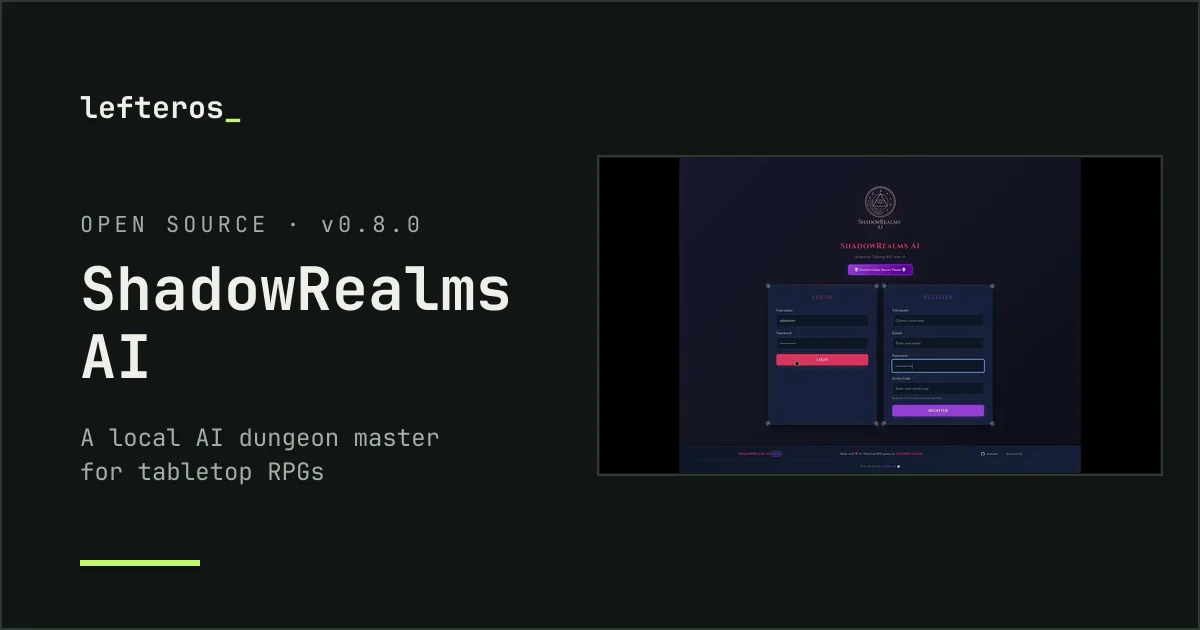
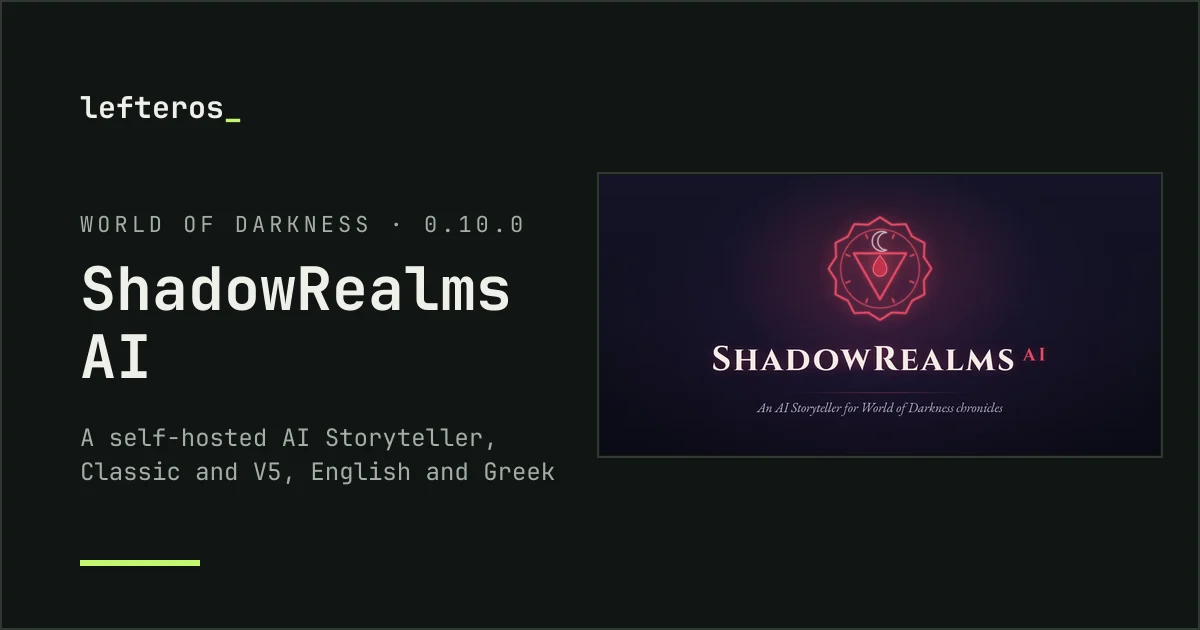
ShadowRealms AI 0.10.0: new cover, trailer in English and Greek, screenshots, the new engine [skip ci]

Changed region(s): [[0.4933, 0.2413, 0.9867, 0.754], [0.0617, 0.6635, 0.4625, 0.7841], [0.0617, 0.3317, 0.4317, 0.3619]]

diff --git a/README.md b/README.md
@@ -47,10 +47,34 @@ Everything I make, write and have worked on lives at **[lefteros_ · lefteros.co
 
 ## Flagship: ShadowRealms AI
 
-<a href="https://lefteros.com/en/apps/shadowrealms-ai/"><img src="assets/cards/cover-shadowrealms-ai.webp" alt="ShadowRealms AI" width="100%"></a>
+<a href="https://lefteros.com/en/apps/shadowrealms-ai/"><img src="assets/cards/cover-shadowrealms-ai.webp" alt="ShadowRealms AI 0.10.0: a self-hosted AI Storyteller for World of Darkness" width="100%"></a>
 
-**[ShadowRealms AI](https://github.com/Somnius/shadowrealms-ai)**: a tabletop RPG platform where the dungeon master is a local LLM. The narrator remembers your campaign through RAG memory in ChromaDB, runs on Docker with Flask and React, and is MIT-licensed. It's my biggest project.
-<br>[![Stars](https://img.shields.io/github/stars/Somnius/shadowrealms-ai?style=flat-square&color=c2f66d&labelColor=111513)](https://github.com/Somnius/shadowrealms-ai/stargazers) · **[Read the story on lefteros.com →](https://lefteros.com/en/apps/shadowrealms-ai/)**
+**[ShadowRealms AI](https://github.com/Somnius/shadowrealms-ai)** is a self-hosted AI Storyteller for World of Darkness chronicles. You run it yourself with Docker, the stories come from local models through LM Studio and Ollama, and every chronicle plays by **Classic** (oWoD Revised: Vampire, Werewolf, Mage) or **V5** rules, in English or Greek. It's my biggest project.
+
+<p align="center"><a href="https://github.com/Somnius/shadowrealms-ai/releases/download/trailer-v0.10.0/trailer_en_1080p60.mp4"><img src="assets/shadowrealms/trailer-en.webp" alt="Watch the ShadowRealms AI trailer (2 minutes)" width="100%"></a><br>
+<sub><b><a href="https://github.com/Somnius/shadowrealms-ai/releases/download/trailer-v0.10.0/trailer_en_1080p60.mp4">Trailer in English</a></b> · <b><a href="https://github.com/Somnius/shadowrealms-ai/releases/download/trailer-v0.10.0/trailer_el_1080p60.mp4">Το trailer στα ελληνικά</a></b> · 2 minutes, recorded on a fresh copy of the app: real Storyteller replies from a local model, real dice rolls, an original score.</sub></p>
+
+- **Two rule sets.** Classic dice follow Revised (difficulties, botches, specialties, Willpower). V5 brings Hunger dice, messy criticals, bestial failures and Rouse checks.
+- **Dice from your sheet.** When the Storyteller calls for a roll, the server works out the pool from your character sheet, and every dice card in the chat is a real server roll.
+- **Discord-style play.** In-character and out-of-character rooms, live updates, slash commands, and a character forge for each edition.
+- **AI in roles.** English and Greek Storytellers (Llama-Krikri for Greek), long-term memory and rule-book search with bge-m3 in ChromaDB, and the Laya classifier moderating the OOC rooms.
+- **A gothic look.** 97 original SVG glyphs and sigils, animated dice, fog, candle glow and blood on a botch.
+- **A new engine in 0.10.0.** Vite instead of Create React App (builds in about a second, npm audit down from 69 findings to 0), React Router 7, Python 3.12, a pinned ChromaDB, and every lint warning fixed.
+
+<table>
+<tr>
+<td width="33%" valign="top"><a href="https://github.com/Somnius/shadowrealms-ai"><img src="assets/shadowrealms/play-v5.webp" alt="A V5 chronicle in play"></a><br><sub>A V5 chronicle in play</sub></td>
+<td width="33%" valign="top"><a href="https://github.com/Somnius/shadowrealms-ai"><img src="assets/shadowrealms/hall.webp" alt="The chronicle hall"></a><br><sub>The chronicle hall</sub></td>
+<td width="33%" valign="top"><a href="https://github.com/Somnius/shadowrealms-ai"><img src="assets/shadowrealms/dice-bestial-failure.webp" alt="A bestial failure"></a><br><sub>A bestial failure</sub></td>
+</tr>
+<tr>
+<td width="33%" valign="top"><a href="https://github.com/Somnius/shadowrealms-ai"><img src="assets/shadowrealms/character-sheet-v5.webp" alt="A V5 character sheet"></a><br><sub>A V5 character sheet</sub></td>
+<td width="33%" valign="top"><a href="https://github.com/Somnius/shadowrealms-ai"><img src="assets/shadowrealms/play-greek.webp" alt="Playing in Greek"></a><br><sub>Playing in Greek</sub></td>
+<td width="33%" valign="top"><a href="https://github.com/Somnius/shadowrealms-ai"><img src="assets/shadowrealms/showcase-hero.webp" alt="The theme preview"></a><br><sub>The theme preview</sub></td>
+</tr>
+</table>
+
+[![Stars](https://img.shields.io/github/stars/Somnius/shadowrealms-ai?style=flat-square&color=c2f66d&labelColor=111513)](https://github.com/Somnius/shadowrealms-ai/stargazers) [![Release](https://img.shields.io/github/v/release/Somnius/shadowrealms-ai?style=flat-square&color=c2f66d&labelColor=111513)](https://github.com/Somnius/shadowrealms-ai/releases/latest) · **[Read the story on lefteros.com →](https://lefteros.com/en/apps/shadowrealms-ai/)**
 
 ## Omarchy plugins
 
@@ -173,7 +197,7 @@ Two-track meeting recording with local transcription, speakers and chapters. Rus
 </tr>
 <tr>
 <td valign="top"><b>Linux, down to the firmware</b><br>From Red Hat in 1997 to <a href="https://lefteros.com/blog/linux-user-6006/">Libreboot on ThinkPads</a>, <a href="https://lefteros.com/blog/linux-user-6339/">declarative NixOS</a> and tools for Omarchy.</td>
-<td valign="top"><b>Local AI and speech</b><br>Models that run on your own machine: an RPG narrator with RAG memory, meeting transcription without the cloud, offline dictation.</td>
+<td valign="top"><b>Local AI and speech</b><br>Models that run on your own machine: an AI Storyteller for World of Darkness with RAG memory, meeting transcription without the cloud, offline dictation.</td>
 </tr>
 <tr>
 <td valign="top"><b>Servers under pressure</b><br>With the RFS Dev Team I kept an event with <a href="https://lefteros.com/en/blog/gameathlon-athens-2013/">8,000+ simultaneous players</a> online.</td>
